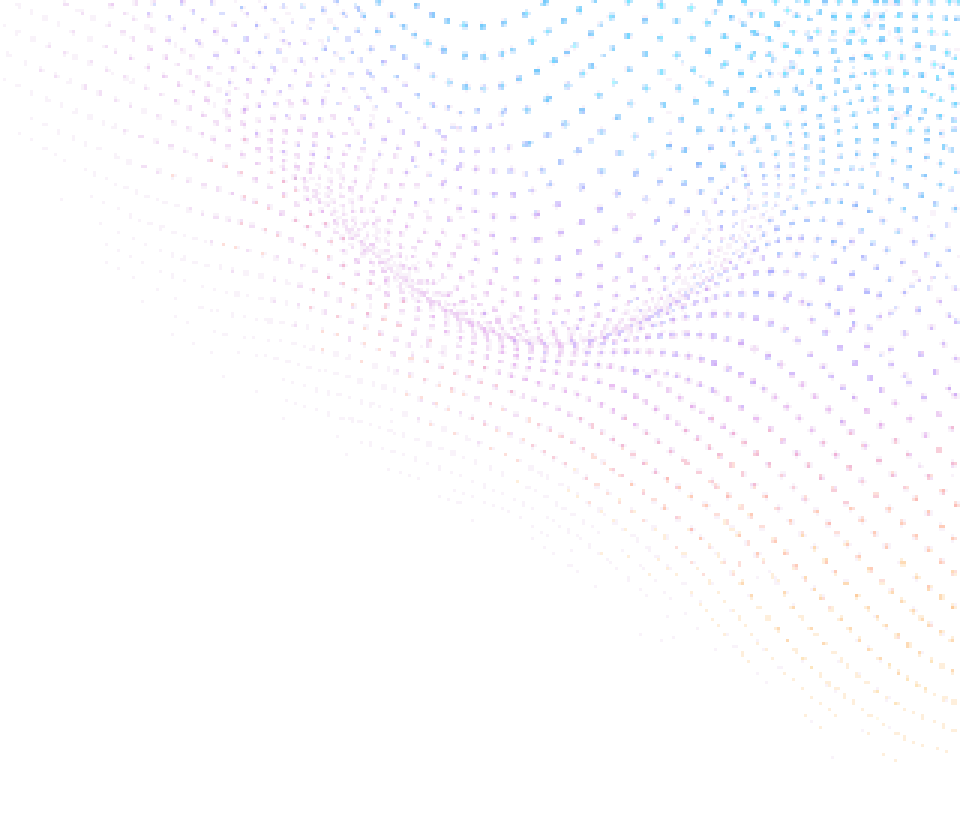
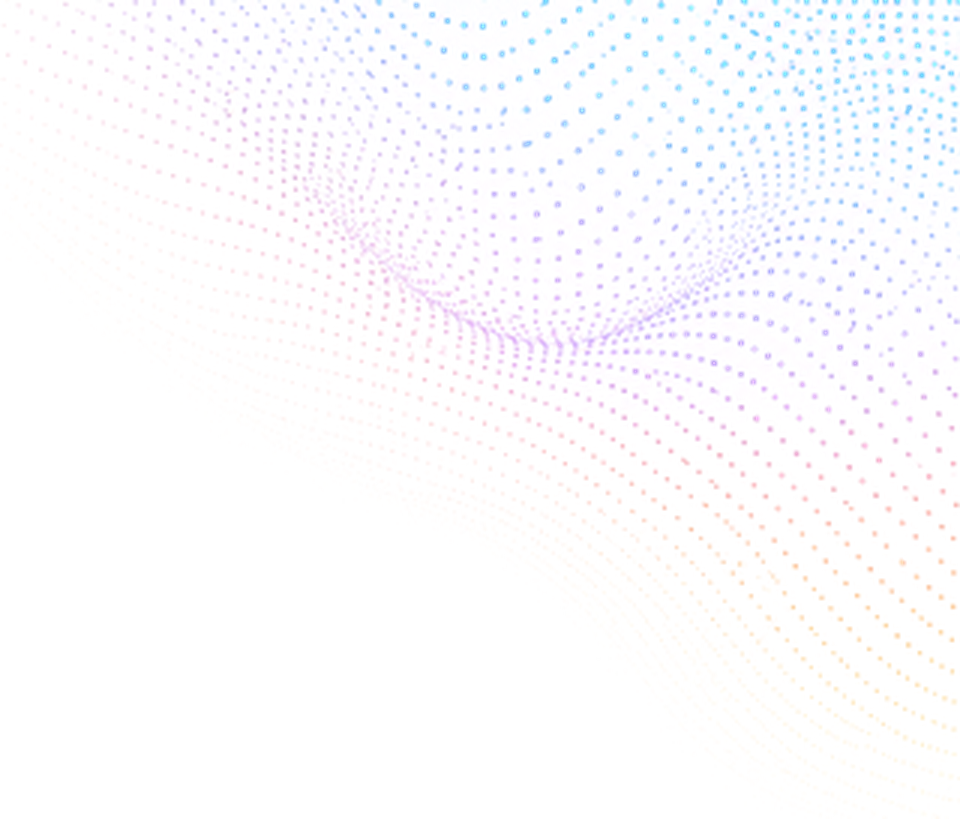
Replace the dot art with the real Figma sources, fix top insets
The dot wave and vortex looked cheap because the committed files were 8-bit
palette exports: 72 colours for the wave, 38 for the vortex. A smooth halftone
gradient quantised that far bands visibly, and no amount of processing
recovers what the export threw away. My previous commit's alpha recovery was
working on already-ruined data.

Pulled the original uploaded sources back out of Figma (nodes 71:247 and
253:398). They carry genuine alpha and 47k / 9k colours against the old 72 /
38, so both the banding and the opaque background go away at once. Resampled
to the same pixel dimensions the app already used. The 4x node exports were
not used: they are upscales of these same sources and arrive flattened onto
the frame background.

Also fixes a top-inset fault across five screens. Home, Profile, Bookings,
Chats and Activity set a fixed paddingTop of 48-52, which is less than the
Dynamic Island's ~59pt safe area, so the first element on each rendered
underneath it. They now derive it from the inset, as Browse already did.

Play additionally had no title and no dot wave at all, though its mock
(697:506) specifies both — which is why that screen in particular looked
sparse and started flush against the status bar. Its search field stays for
now; removing it belongs to the Play rebuild that is still awaiting a
decision.

Compared old against new over the app's cream for both assets before
committing.

Changed region(s): [[0.75, 0.0, 1.0, 0.1832], [0.8125, 0.1221, 0.875, 0.1832]]

diff --git a/artifacts/playos-mobile/app/(tabs)/play.tsx b/artifacts/playos-mobile/app/(tabs)/play.tsx
@@ -1,6 +1,7 @@
 import { useEffect, useMemo, useState } from "react";
-import { View, Text, StyleSheet, ScrollView, TextInput, Pressable, Image } from "react-native";
+import { View, Text, StyleSheet, ScrollView, TextInput, Pressable, Image, useWindowDimensions } from "react-native";
 import { useRouter } from "expo-router";
+import { useSafeAreaInsets } from "react-native-safe-area-context";
 import { LinearGradient } from "expo-linear-gradient";
 import { format, isSameDay } from "date-fns";
 import { Search } from "lucide-react-native";
@@ -20,8 +21,15 @@ const INK = "#1C1C1E";
 const MUTED = "#6C6C70";
 const CARD_SUB = "#B3B3B3";
 
+const GLOWS = [
+  { cx: 0.8, cy: 0.15, r: 0.9, color: "rgba(255,225,204,0.35)" },
+  { cx: 0.65, cy: 0.3, r: 0.6, color: "rgba(255,217,228,0.2)" },
+];
+
 export default function Play() {
   const router = useRouter();
+  const insets = useSafeAreaInsets();
+  const { width } = useWindowDimensions();
   const { data: games, isLoading, isError } = useListGames();
   const [query, setQuery] = useState("");
 
@@ -54,7 +62,19 @@ export default function Play() {
   const nextUp = filtered[0];
 
   return (
-    <ScrollView style={styles.wrap} contentContainerStyle={styles.content} showsVerticalScrollIndicator={false}>
+    <View style={styles.wrap}>
+      <WarmCanvas base="#FFF8F0" glows={GLOWS} />
+      {/* Mock 697:507 — this screen has always specified the dot wave. */}
+      <DotWaveBackground width={width} height={600} />
+
+      <ScrollView
+        contentContainerStyle={[styles.content, { paddingTop: insets.top + 8 }]}
+        showsVerticalScrollIndicator={false}
+      >
+        {/* Title (697:509). Missing entirely, which is why the screen started
+            flush against the status bar with nothing above the search field. */}
+        <HandwrittenHeader style={styles.pageTitle}>play</HandwrittenHeader>
+
       {/* Search (Figma 3:3 — glass 350×44) */}
       <View style={styles.searchBar}>
         <Search size={20} color={MUTED} strokeWidth={1.8} />
@@ -158,19 +178,24 @@ export default function Play() {
       {showSkeleton && <BrowseSkeleton />}
       {!showSkeleton && !isLoading && (games ?? []).length === 0 && <PlayNothingLive />}
 
-      {(games ?? []).length > 0 && filtered.length === 0 && (
-        <View style={styles.empty}>
-          <Text style={styles.emptyTitle}>No games found</Text>
-          <Text style={styles.emptyBody}>Try a different search.</Text>
-        </View>
-      )}
-    </ScrollView>
+        {(games ?? []).length > 0 && filtered.length === 0 && (
+          <View style={styles.empty}>
+            <Text style={styles.emptyTitle}>No games found</Text>
+            <Text style={styles.emptyBody}>Try a different search.</Text>
+          </View>
+        )}
+      </ScrollView>
+    </View>
   );
 }
 
 const styles = StyleSheet.create({
   wrap: { flex: 1, backgroundColor: "#FFF8F0" },
-  content: { paddingHorizontal: 20, paddingTop: spacing.xxl + 20, paddingBottom: 130 },
+  // paddingTop comes from the safe-area inset at the call site. It was a fixed
+  // 52, which is less than the Dynamic Island's inset, so the first element sat
+  // under the island.
+  content: { paddingHorizontal: 20, paddingBottom: 130 },
+  pageTitle: { fontSize: 34, color: "#FF9F0A", marginBottom: 18 },
 
   searchBar: {
     flexDirection: "row", alignItems: "center", gap: 2,

diff --git a/artifacts/playos-mobile/app/(tabs)/index.tsx b/artifacts/playos-mobile/app/(tabs)/index.tsx
@@ -1,6 +1,7 @@
 import { useEffect } from "react";
 import { View, Text, StyleSheet, ScrollView, Pressable, RefreshControl, Image, useWindowDimensions, Platform } from "react-native";
 import { useRouter } from "expo-router";
+import { useSafeAreaInsets } from "react-native-safe-area-context";
 import { BlurView } from "expo-blur";
 import { format } from "date-fns";
 import { Bell, Users, MapPin, User, ArrowRight } from "lucide-react-native";
@@ -29,6 +30,7 @@ const HOME_GLOWS = [
 
 export default function Home() {
   const router = useRouter();
+  const insets = useSafeAreaInsets();
   const { width } = useWindowDimensions();
   const { data: games, isLoading, isError, refetch, isRefetching } = useListGames();
   const { data: bookings, isLoading: bookingsLoading } = useGetMyBookings();
@@ -65,7 +67,7 @@ export default function Home() {
       <DotWaveBackground width={width} height={600} />
       <ScrollView
         style={styles.scroll}
-        contentContainerStyle={styles.content}
+        contentContainerStyle={[styles.content, { paddingTop: insets.top + 8 }]}
         refreshControl={<RefreshControl refreshing={isRefetching} onRefresh={refetch} tintColor={colors.orange} />}
         showsVerticalScrollIndicator={false}
       >
@@ -176,7 +178,10 @@ function isSameDay(a: Date, b: Date) {
 const styles = StyleSheet.create({
   wrap: { flex: 1, backgroundColor: "#FFF8F0" },
   scroll: { flex: 1 },
-  content: { paddingHorizontal: 20, paddingTop: spacing.xxl + 16, paddingBottom: 130 },
+    // paddingTop is applied at the call site from the safe-area inset: the
+  // fixed value here was smaller than the Dynamic Island's inset, so the first
+  // element rendered underneath it.
+  content: { paddingHorizontal: 20, paddingBottom: 130 },
   header: { flexDirection: "row", justifyContent: "space-between", alignItems: "center" },
   logo: { fontSize: 17, fontWeight: "700", color: INK },
   bellDot: { position: "absolute", top: -1, right: -1, width: 8, height: 8, borderRadius: 4, backgroundColor: colors.orange },

diff --git a/artifacts/playos-mobile/app/(tabs)/settings.tsx b/artifacts/playos-mobile/app/(tabs)/settings.tsx
@@ -1,6 +1,7 @@
 import { useEffect, useState } from "react";
 import { View, Text, StyleSheet, Pressable, Linking, ScrollView, Image, Alert } from "react-native";
 import { useRouter } from "expo-router";
+import { useSafeAreaInsets } from "react-native-safe-area-context";
 import { CreditCard, Bell, HelpCircle, User as UserIcon, Wallet } from "lucide-react-native";
 import * as Notifications from "expo-notifications";
 import { useAuth } from "@/lib/auth";
@@ -20,6 +21,7 @@ export default function Profile() {
   const { data: stats } = useGetMyStats();
   const { data: credits = 0 } = useGetMyCredits();
   const router = useRouter();
+  const insets = useSafeAreaInsets();
   const [pushGranted, setPushGranted] = useState<boolean | null>(null);
 
   useEffect(() => {
@@ -70,7 +72,7 @@ export default function Profile() {
   ];
 
   return (
-    <ScrollView style={styles.wrap} contentContainerStyle={styles.content} showsVerticalScrollIndicator={false}>
+    <ScrollView style={styles.wrap} contentContainerStyle={[styles.content, { paddingTop: insets.top + 8 }]} showsVerticalScrollIndicator={false}>
       {/* Dot vortex corner art (Figma 253:398) */}
       <Image source={require("../../assets/dotvortex.png")} style={styles.vortex} resizeMode="cover" />
 
@@ -134,7 +136,10 @@ export default function Profile() {
 
 const styles = StyleSheet.create({
   wrap: { flex: 1, backgroundColor: "#FFF8F0" },
-  content: { paddingHorizontal: 20, paddingTop: spacing.xxl + 20, paddingBottom: 130 },
+    // paddingTop is applied at the call site from the safe-area inset: the
+  // fixed value here was smaller than the Dynamic Island's inset, so the first
+  // element rendered underneath it.
+  content: { paddingHorizontal: 20, paddingBottom: 130 },
 
   vortex: { position: "absolute", top: -25, right: -25, width: 320, height: 273, opacity: 0.9 },
 

diff --git a/artifacts/playos-mobile/app/(tabs)/chat.tsx b/artifacts/playos-mobile/app/(tabs)/chat.tsx
@@ -1,6 +1,7 @@
 import { useEffect, useState } from "react";
 import { View, Text, StyleSheet, FlatList, Pressable, Image, RefreshControl } from "react-native";
 import { useRouter } from "expo-router";
+import { useSafeAreaInsets } from "react-native-safe-area-context";
 import { format, isToday, isYesterday } from "date-fns";
 import { MessageCircle } from "lucide-react-native";
 import { useMyConversations } from "@/lib/api";
@@ -30,6 +31,7 @@ function stamp(iso?: string | null) {
  */
 export default function Chat() {
   const router = useRouter();
+  const insets = useSafeAreaInsets();
   const { data: conversations, isLoading, refetch, isRefetching } = useMyConversations();
   const [tab, setTab] = useState<"messages" | "groups">("groups");
 
@@ -45,7 +47,7 @@ export default function Chat() {
       <Image source={require("../../assets/dotvortex.png")} style={styles.vortex} resizeMode="cover" />
 
       <FlatList
-        contentContainerStyle={styles.content}
+        contentContainerStyle={[styles.content, { paddingTop: insets.top + 8 }]}
         data={list}
         keyExtractor={(item) => item.id}
         refreshControl={<RefreshControl refreshing={isRefetching} onRefresh={refetch} tintColor={colors.orange} />}
@@ -110,7 +112,10 @@ export default function Chat() {
 
 const styles = StyleSheet.create({
   wrap: { flex: 1, backgroundColor: "#FFF8F0" },
-  content: { paddingHorizontal: 20, paddingTop: spacing.xxl + 20, paddingBottom: 130 },
+    // paddingTop is applied at the call site from the safe-area inset: the
+  // fixed value here was smaller than the Dynamic Island's inset, so the first
+  // element rendered underneath it.
+  content: { paddingHorizontal: 20, paddingBottom: 130 },
 
   vortex: { position: "absolute", top: -25, right: -25, width: 320, height: 273, opacity: 0.9 },
 

diff --git a/artifacts/playos-mobile/app/activity.tsx b/artifacts/playos-mobile/app/activity.tsx
@@ -1,6 +1,7 @@
 import { useEffect } from "react";
 import { View, Text, StyleSheet, ScrollView, Pressable, Image, useWindowDimensions, Platform } from "react-native";
 import { useRouter } from "expo-router";
+import { useSafeAreaInsets } from "react-native-safe-area-context";
 import { BlurView } from "expo-blur";
 import { LinearGradient } from "expo-linear-gradient";
 import Svg, { Circle, Defs, LinearGradient as SvgGradient, Stop } from "react-native-svg";
@@ -28,6 +29,7 @@ const SUBTLE = "#8C8780";
  */
 export default function Activity() {
   const router = useRouter();
+  const insets = useSafeAreaInsets();
   const { width } = useWindowDimensions();
   const { data } = useGetMyActivity();
 
@@ -53,7 +55,7 @@ export default function Activity() {
   return (
     <View style={styles.wrap}>
       <DotWaveBackground width={width} height={600} />
-      <ScrollView contentContainerStyle={styles.content} showsVerticalScrollIndicator={false}>
+      <ScrollView contentContainerStyle={[styles.content, { paddingTop: insets.top + 8 }]} showsVerticalScrollIndicator={false}>
         <View style={styles.topRow}>
           <Pressable onPress={() => router.back()} hitSlop={12}>
             <ArrowLeft size={20} color={INK} strokeWidth={2} />
@@ -204,7 +206,10 @@ const glassCard = {
 
 const styles = StyleSheet.create({
   wrap: { flex: 1, backgroundColor: "#FFF8F0" },
-  content: { paddingHorizontal: 20, paddingTop: spacing.xxl, paddingBottom: 130 },
+    // paddingTop is applied at the call site from the safe-area inset: the
+  // fixed value here was smaller than the Dynamic Island's inset, so the first
+  // element rendered underneath it.
+  content: { paddingHorizontal: 20, paddingBottom: 130 },
 
   topRow: { height: 24, justifyContent: "center" },
   header: { fontSize: 34, marginTop: 10 },

diff --git a/artifacts/playos-mobile/app/(tabs)/my-games.tsx b/artifacts/playos-mobile/app/(tabs)/my-games.tsx
@@ -1,6 +1,7 @@
 import { useEffect, useState } from "react";
 import { View, Text, StyleSheet, FlatList, RefreshControl, Pressable, Image } from "react-native";
 import { useRouter } from "expo-router";
+import { useSafeAreaInsets } from "react-native-safe-area-context";
 import { LinearGradient } from "expo-linear-gradient";
 import { format, isSameDay } from "date-fns";
 import { CalendarDays } from "lucide-react-native";
@@ -26,6 +27,7 @@ const MUTED = "#6C6C70";
 
 export default function MyGames() {
   const router = useRouter();
+  const insets = useSafeAreaInsets();
   const { data, isLoading, isError, refetch, isRefetching } = useGetMyBookings();
   const [tab, setTab] = useState<"upcoming" | "past">("upcoming");
 
@@ -75,7 +77,7 @@ export default function MyGames() {
   return (
     <FlatList
       style={styles.wrap}
-      contentContainerStyle={styles.content}
+      contentContainerStyle={[styles.content, { paddingTop: insets.top + 8 }]}
       data={list}
       keyExtractor={(item) => item.id}
       refreshControl={<RefreshControl refreshing={isRefetching} onRefresh={refetch} tintColor={colors.orange} />}
@@ -170,7 +172,10 @@ export default function MyGames() {
 
 const styles = StyleSheet.create({
   wrap: { flex: 1, backgroundColor: "#FFF8F0" },
-  content: { paddingHorizontal: 19, paddingTop: spacing.xxl + 20, paddingBottom: 130 },
+    // paddingTop is applied at the call site from the safe-area inset: the
+  // fixed value here was smaller than the Dynamic Island's inset, so the first
+  // element rendered underneath it.
+  content: { paddingHorizontal: 19, paddingBottom: 130 },
 
   header: { fontSize: 28, marginBottom: spacing.xl },
 
